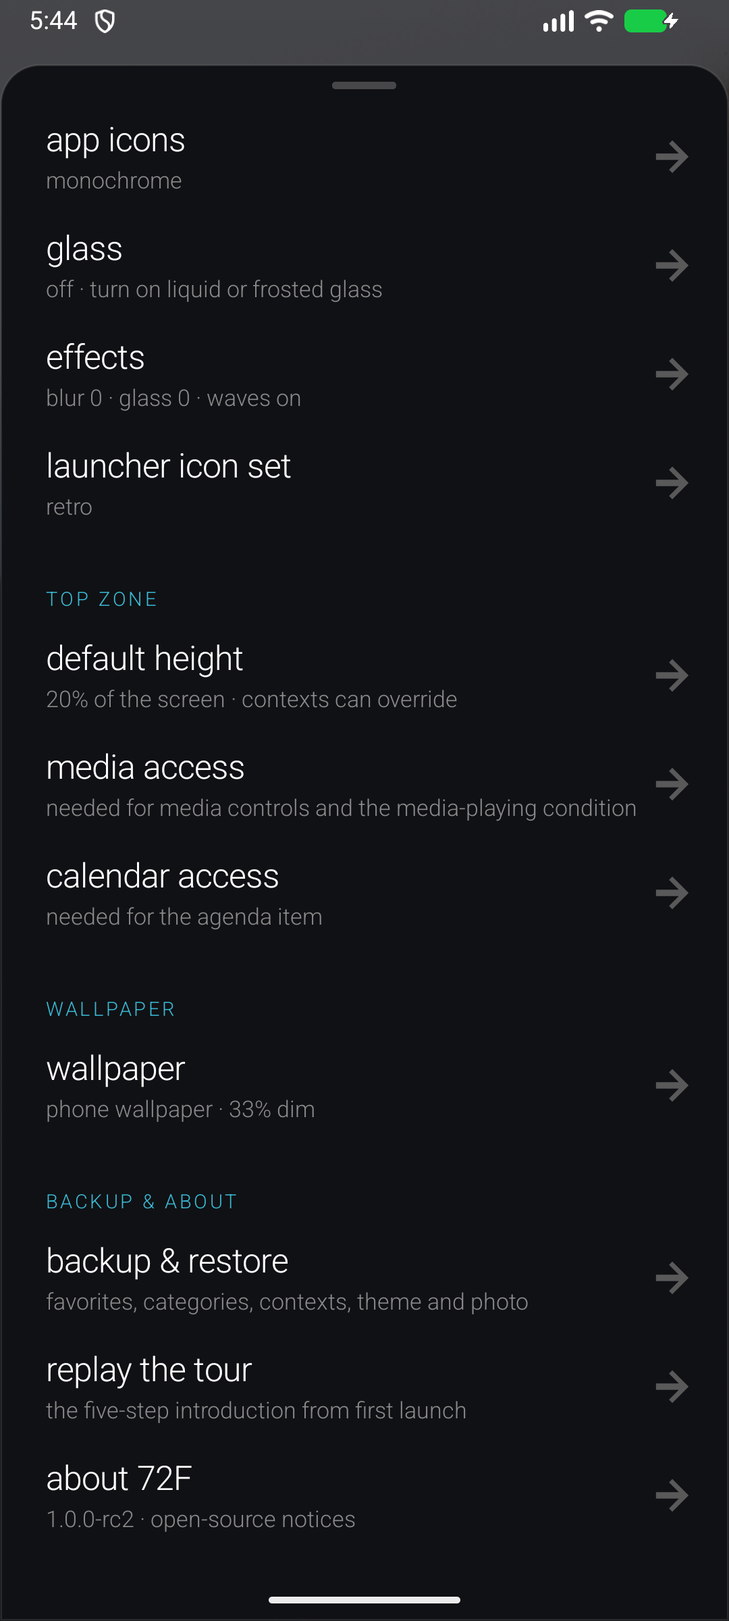
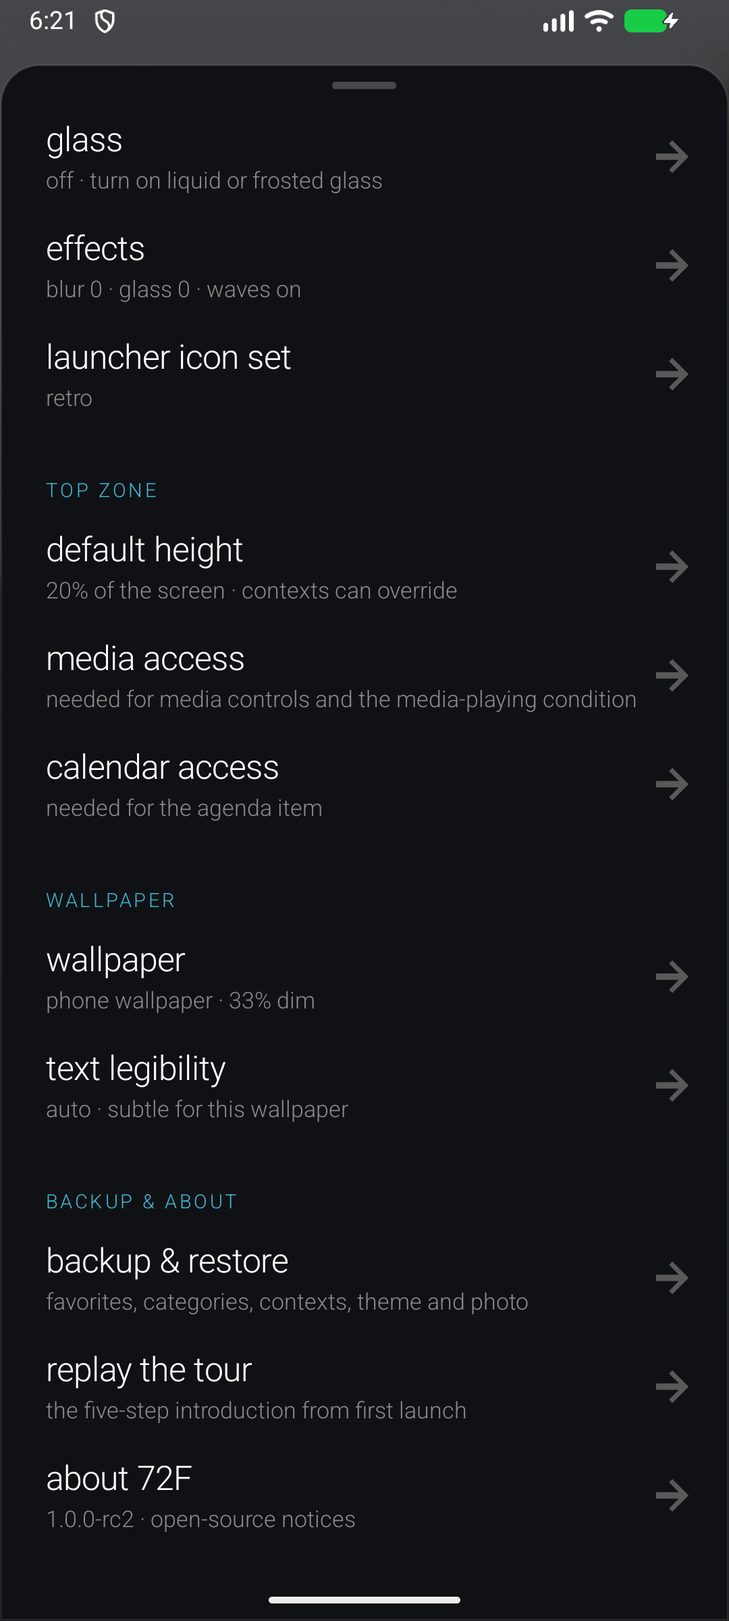
Text legibility over wallpapers: auto/subtle/strong/off
- Measures the photo's 10th/90th percentile luminance (or Android's wallpaper color hints) after dimming and picks Strong when worst-case contrast falls below WCAG 4.5:1
- Subtle: soft halo (dark behind light text, light behind dark text) and secondary text lifted from muted grey; Strong: stronger halo and 15% extra dimming
- Applied to category titles, app labels, clock, date, alarm, agenda, media, empty state, alphabet rail and search; light-theme dock surface made opaque enough for photos
- Setting in settings and the wallpaper menu, included in backups and validated on restore; Legibility class with JVM tests

diff --git a/app/src/main/java/dev/seventwo/launcher/MainActivity.java b/app/src/main/java/dev/seventwo/launcher/MainActivity.java
@@ -65,6 +65,9 @@ public final class MainActivity extends Activity {
     private String activeWallpaperMode;
     private EditText search;
     private CategoryRail categoryRail;
+    // Text legibility over images: photo luminance percentiles (measured off the UI thread) and the resolved level.
+    private volatile double photoDark=.05, photoBright=.5;
+    private int legibility;
     // Material 3 tonal roles. Expressive themes take them from the wallpaper palette (Android 12+).
     private int primaryContainer, onPrimaryContainer, secondaryContainer, onSecondaryContainer, surfaceContainer;
     private AlphabetRail alphabet;
@@ -225,6 +228,7 @@ public final class MainActivity extends Activity {
             boolean selected=c.equals(category);
             TextView t=text(theme.layout.equals("xmb")?Character.toUpperCase(c.charAt(0))+c.substring(1):c,titleSize,selected?fg:MetroArt.alpha(muted,.62f));
             if(theme.expressive){t.setTypeface(Typeface.create(theme.typeface,selected?800:500,false));t.setLetterSpacing(-.02f);}
+            if(legibility!=Legibility.OFF){if(!selected)t.setTextColor(MetroArt.alpha(fg,legibility==Legibility.STRONG?.78f:.62f));legible(t);}
             if(theme.liquid){t.setTextSize(Math.min(titleSize,36));t.setTypeface(Typeface.create(theme.typeface,600,false));t.setTextColor(selected?fg:MetroArt.alpha(fg,.38f));}
             t.setPadding(dp(24),dp(theme.liquid?12:0),dp(12),dp(theme.liquid?14:6));t.setSingleLine(true);t.setLetterSpacing(theme.layout.equals("xmb")?0:-.035f);
             t.setContentDescription(c+" category"+(selected?", selected":""));t.setOnClickListener(v->selectCategory(c,true));
@@ -247,7 +251,7 @@ public final class MainActivity extends Activity {
         if(waves!=null)waves.stop();for(GlassSurface glass:glassSurfaces)glass.stop();glassSurfaces.clear();glassBackdrop.clear();
         root=column();scene=new FrameLayout(this);backdropView=new View(this);
         scene.addView(backdropView,new FrameLayout.LayoutParams(-1,-1));scene.addView(root,new FrameLayout.LayoutParams(-1,-1));
-        activeWallpaperMode=prefs.getString("wallpaperMode","solid");
+        activeWallpaperMode=prefs.getString("wallpaperMode","solid");legibility=resolveLegibility();
         boolean useSystemWallpaper=activeWallpaperMode.equals("system");
         if(useSystemWallpaper)getWindow().addFlags(WindowManager.LayoutParams.FLAG_SHOW_WALLPAPER);else getWindow().clearFlags(WindowManager.LayoutParams.FLAG_SHOW_WALLPAPER);
         getWindow().setBackgroundDrawable(new android.graphics.drawable.ColorDrawable(Color.TRANSPARENT));
@@ -258,7 +262,7 @@ public final class MainActivity extends Activity {
         setContentView(scene); root.requestApplyInsets();
         if (searching) {
             LinearLayout row = row(); row.setPadding(dp(18), dp(8), dp(12), dp(8));
-            search = new EditText(this); search.setTextColor(fg); search.setHintTextColor(muted); search.setTextSize(25); search.setSingleLine(); search.setHint("find an app"); search.setTypeface(theme.typeface); search.setText(query);
+            search = new EditText(this); search.setTextColor(fg); search.setHintTextColor(secondaryInk()); legible(search); search.setTextSize(25); search.setSingleLine(); search.setHint("find an app"); search.setTypeface(theme.typeface); search.setText(query);
             row.addView(search,new LinearLayout.LayoutParams(0,dp(58),1)); row.addView(iconButton("close", "Close search", false, v -> onBackPressed())); root.addView(row);
             search.addTextChangedListener(new TextWatcher() { public void beforeTextChanged(CharSequence s,int a,int c,int f) {} public void onTextChanged(CharSequence s,int a,int b,int c) { query=s.toString(); refreshList(true); } public void afterTextChanged(Editable e) {} });
             search.setOnEditorActionListener((v,a,e) -> { if (!visible.isEmpty()) launch(visible.get(0)); return true; });
@@ -277,7 +281,7 @@ public final class MainActivity extends Activity {
         adapter = new AppAdapter(); list.setAdapter(adapter); listArea.addView(list,new FrameLayout.LayoutParams(-1,-1));
         list.setOnItemClickListener((p,v,pos,id) -> launch(visible.get(pos)));
         list.setOnItemLongClickListener((p,v,pos,id) -> { appMenu(visible.get(pos)); return true; });
-        empty = text("",20,muted); empty.setGravity(Gravity.CENTER); empty.setPadding(dp(40),0,dp(40),0); listArea.addView(empty,new FrameLayout.LayoutParams(-1,-1));
+        empty = text("",20,secondaryInk()); legible(empty); empty.setGravity(Gravity.CENTER); empty.setPadding(dp(40),0,dp(40),0); listArea.addView(empty,new FrameLayout.LayoutParams(-1,-1));
         alphabet = new AlphabetRail(); FrameLayout.LayoutParams railParams = new FrameLayout.LayoutParams(dp(40),-1, left?Gravity.LEFT:Gravity.RIGHT); listArea.addView(alphabet,railParams);
         letter = text("",64,accent); letter.setGravity(Gravity.CENTER); letter.setBackground(outline(MetroArt.alpha(bg,.96f),MetroArt.alpha(accent,.5f))); letter.setVisibility(View.GONE);
         FrameLayout.LayoutParams bubble = new FrameLayout.LayoutParams(dp(100),dp(100),Gravity.CENTER); listArea.addView(letter,bubble);
@@ -357,7 +361,7 @@ public final class MainActivity extends Activity {
         }
         void bind(App app) {
             label.setText(app.work ? getString(R.string.work_app,app.name) : app.name);
-            label.setTextColor(fg); label.setTypeface(theme.liquid?Typeface.create(theme.typeface,450,false):theme.typeface);
+            label.setTextColor(fg); legible(label); label.setTypeface(theme.liquid?Typeface.create(theme.typeface,450,false):theme.typeface);
             String style=prefs.getString("icons",theme.iconStyle);
             icon.setVisibility(style.equals("none")?GONE:VISIBLE); icon.setImageDrawable(app.icon);
             if(style.equals("mono")) { ColorMatrix colors=new ColorMatrix();colors.setSaturation(0);icon.setColorFilter(new ColorMatrixColorFilter(colors));icon.setAlpha(.82f); }
@@ -517,7 +521,8 @@ public final class MainActivity extends Activity {
         final Paint paint = new Paint(Paint.ANTI_ALIAS_FLAG); final ArrayList<String> letters = new ArrayList<>(); final ArrayList<Integer> positions=new ArrayList<>(); int selected=-1;
         AlphabetRail(){super(MainActivity.this);setContentDescription("Alphabet scrubber. Drag to jump to an app letter");setImportantForAccessibility(View.IMPORTANT_FOR_ACCESSIBILITY_NO);}
         void update(){ letters.clear();positions.clear(); for(int i=0;i<visible.size();i++){String l=CategoryRules.initial(visible.get(i).name);if(!letters.contains(l)){letters.add(l);positions.add(i);}}invalidate(); }
-        @Override protected void onDraw(Canvas c){super.onDraw(c);if(letters.isEmpty())return;paint.setTypeface(Typeface.create("sans-serif",Typeface.NORMAL));paint.setTextAlign(Paint.Align.CENTER);paint.setTextSize(dp(10));float step=Math.min(dp(22),(getHeight()-dp(16))/(float)letters.size());float start=(getHeight()-step*letters.size())/2;for(int i=0;i<letters.size();i++){paint.setColor(i==selected?accent:muted);c.drawText(letters.get(i),getWidth()/2f,start+step*(i+.5f)+dp(4),paint);}}
+        @Override protected void onDraw(Canvas c){super.onDraw(c);if(letters.isEmpty())return;paint.setTypeface(Typeface.create("sans-serif",Typeface.NORMAL));paint.setTextAlign(Paint.Align.CENTER);paint.setTextSize(dp(10));float step=Math.min(dp(22),(getHeight()-dp(16))/(float)letters.size());float start=(getHeight()-step*letters.size())/2;if(legibility!=Legibility.OFF)paint.setShadowLayer(dp(3),0,dp(.5f),Color.luminance(fg)>=.4?MetroArt.alpha(Color.BLACK,.6f):MetroArt.alpha(Color.WHITE,.7f));else paint.clearShadowLayer();
+            for(int i=0;i<letters.size();i++){paint.setColor(i==selected?accent:secondaryInk());c.drawText(letters.get(i),getWidth()/2f,start+step*(i+.5f)+dp(4),paint);}}
         @Override public boolean performClick(){super.performClick();return true;}
         @Override public boolean onTouchEvent(MotionEvent e){
             if(letters.isEmpty())return false;
@@ -606,7 +611,7 @@ public final class MainActivity extends Activity {
             surfaceContainer=mix(bg,fg,dark?.09f:.05f);
         }else{
             primaryContainer=accent;onPrimaryContainer=onAccent();secondaryContainer=MetroArt.alpha(accent,Color.luminance(accent)>.6?.22f:.18f);onSecondaryContainer=accent;
-            surfaceContainer=dark?MetroArt.alpha(mix(bg,fg,.12f),.92f):MetroArt.alpha(fg,.06f);
+            surfaceContainer=dark?MetroArt.alpha(mix(bg,fg,.12f),.92f):MetroArt.alpha(mix(bg,fg,.06f),.88f); // opaque enough to read over photos
         }
     }
     private JSONObject themeJson(){try{return new JSONObject(theme.json.toString());}catch(JSONException e){throw new IllegalStateException(e);}}
@@ -717,12 +722,45 @@ public final class MainActivity extends Activity {
         }catch(Exception e){ThemeEngine.deleteTree(prepared.directory);fileError(e);}
     }
     private GlassSurface glassSurface(View host){GlassSurface surface=new GlassSurface(host,scene,()->backdropView.getBackground(),glassBackdrop,theme,getResources().getDisplayMetrics().density);glassSurfaces.add(surface);host.setClipToOutline(true);if(theme.liquid)host.setElevation(dp(3));return surface;}
+    /** 10th/90th percentile relative luminance of the photo; the spots that threaten dark and light text. */
+    private void measurePhoto(Bitmap image){
+        try{
+            Bitmap small=Bitmap.createScaledBitmap(image,48,96,true);int[] px=new int[48*96];small.getPixels(px,0,48,0,0,48,96);if(small!=image)small.recycle();
+            double[] l=new double[px.length];for(int i=0;i<px.length;i++)l[i]=Color.luminance(px[i]);Arrays.sort(l);
+            photoDark=l[(int)(l.length*.1)];photoBright=l[(int)(l.length*.9)];
+        }catch(RuntimeException ignored){}
+    }
+    private boolean overImage(){return "photo".equals(activeWallpaperMode)&&wallpaper!=null||"system".equals(activeWallpaperMode);}
+    /** Picks Subtle or Strong from measured contrast; the phone wallpaper uses Android's color hints. */
+    private int resolveLegibility(){
+        int automatic=Legibility.SUBTLE;
+        if(overImage()){
+            double dark=photoDark,bright=photoBright;
+            if("system".equals(activeWallpaperMode)){
+                try{WallpaperColors colors=WallpaperManager.getInstance(this).getWallpaperColors(WallpaperManager.FLAG_SYSTEM);
+                    if(colors!=null){double primary=Color.luminance(colors.getPrimaryColor().toArgb());boolean light=Build.VERSION.SDK_INT>=31?(colors.getColorHints()&WallpaperColors.HINT_SUPPORTS_DARK_TEXT)!=0:primary>.5;
+                        bright=light?Math.max(.7,primary):Math.max(.25,Math.min(1,primary*1.8));dark=light?Math.min(.3,primary):primary*.5;}}
+                catch(RuntimeException ignored){}
+            }
+            automatic=Legibility.auto(Color.luminance(fg),Color.luminance(bg),dark,bright,prefs.getInt("wallpaperDim",60)/100.0);
+        }
+        return Legibility.resolve(prefs.getString("legibility","auto"),overImage(),automatic);
+    }
+    /** Secondary text over images: lifted from muted grey toward the main text color. */
+    private int secondaryInk(){return legibility==Legibility.OFF?muted:mix(muted,fg,legibility==Legibility.STRONG?.8f:.55f);}
+    /** A soft halo behind text drawn on an image: dark behind light text, light behind dark text. */
+    private void legible(TextView t){
+        if(legibility==Legibility.OFF){t.setShadowLayer(0,0,0,0);return;}
+        boolean lightText=Color.luminance(t.getCurrentTextColor())>=.4;
+        float strong=legibility==Legibility.STRONG?1:0;
+        t.setShadowLayer(dp(5+5*strong),0,dp(1),lightText?MetroArt.alpha(Color.BLACK,.45f+.3f*strong):MetroArt.alpha(Color.WHITE,.6f+.3f*strong));
+    }
     private void updateBackdrop(){
         if(backdropView==null)return;glassBackdrop.clear();for(GlassSurface surface:glassSurfaces)surface.invalidateSelf();if(waves!=null)waves.stop();waves=null;
         Bitmap image=Build.VERSION.SDK_INT<31&&softWallpaper!=null?softWallpaper:wallpaper;
         boolean system=activeWallpaperMode.equals("system");
         if(theme.backdrop.equals("waves")&&!activeWallpaperMode.equals("photo")&&!system){waves=new Ps3Backdrop(bg,accent);backdropView.setBackground(waves);if(foreground&&theme.animated&&android.animation.ValueAnimator.areAnimatorsEnabled())waves.start();}
-        else backdropView.setBackground(new MetroArt.Backdrop(activeWallpaperMode.equals("photo")?image:null,bg,theme.backdrop.equals("solid")?bg:accent,prefs.getInt("wallpaperDim",60)/100f,system));
+        else backdropView.setBackground(new MetroArt.Backdrop(activeWallpaperMode.equals("photo")?image:null,bg,theme.backdrop.equals("solid")?bg:accent,Math.min(.92f,prefs.getInt("wallpaperDim",60)/100f+(float)Legibility.extraDim(legibility)),system));
         if(Build.VERSION.SDK_INT>=31){backdropView.setRenderEffect(theme.blur>0?RenderEffect.createBlurEffect(dp(theme.blur),dp(theme.blur),Shader.TileMode.CLAMP):null);getWindow().setBackgroundBlurRadius(system?dp(theme.blur):0);}
     }
     private void prepareSoftWallpaper(){
@@ -738,7 +776,7 @@ public final class MainActivity extends Activity {
         final File selectedFile=file;
         worker.execute(() -> {
             try {
-                Bitmap image=decodeWallpaper(selectedFile);
+                Bitmap image=decodeWallpaper(selectedFile);measurePhoto(image);
                 handler.post(() -> { if(!isDestroyed()&&request==wallpaperGeneration){wallpaper=image;prepareSoftWallpaper();buildUi();}else image.recycle(); });
             } catch(IOException ignored) { }
         });
@@ -764,7 +802,7 @@ public final class MainActivity extends Activity {
                     byte[] buffer=new byte[8192];int n,total=0;
                     while((n=in.read(buffer))!=-1){total+=n;if(total>32*1024*1024)throw new IOException("Choose an image smaller than 32 MB");out.write(buffer,0,n);}
                 }
-                Bitmap image=decodeWallpaper(incoming);
+                Bitmap image=decodeWallpaper(incoming);measurePhoto(image);
                 android.util.AtomicFile saved=new android.util.AtomicFile(new File(getFilesDir(),"wallpaper.jpg"));
                 FileOutputStream output=null;
                 try { output=saved.startWrite();if(!image.compress(Bitmap.CompressFormat.JPEG,92,output))throw new IOException("Couldn't save image");saved.finishWrite(output); }
@@ -777,7 +815,8 @@ public final class MainActivity extends Activity {
         });
     }
     private void wallpaperSettings() {
-        menu("wallpaper",new String[]{"choose a photo","use phone wallpaper","solid background","wallpaper dimming","use saved photo"},i -> {
+        menu("wallpaper",new String[]{"choose a photo","use phone wallpaper","solid background","wallpaper dimming","use saved photo","text legibility · "+legibilitySummary()},i -> {
+            if(i==5){legibilitySettings();return;}
             if(i==0){try{startActivityForResult(new Intent(Intent.ACTION_OPEN_DOCUMENT).setType("image/*").addCategory(Intent.CATEGORY_OPENABLE),44);}catch(ActivityNotFoundException e){toast("No image picker available");}}
             if(i==1||i==2){prefs.edit().putString("wallpaperMode",i==1?"system":"solid").apply();buildUi();}
             if(i==3){
@@ -810,20 +849,20 @@ public final class MainActivity extends Activity {
             switch(item){
                 case "clock":{
                     LinearLayout timeRow=row(); timeRow.setGravity(Gravity.CENTER_VERTICAL);
-                    clock=text("",theme.layout.equals("xmb")?30:percent<=10?34:46,fg); clock.setLetterSpacing(-.045f); clock.setSingleLine(true);
+                    clock=text("",theme.layout.equals("xmb")?30:percent<=10?34:46,fg);legible(clock); clock.setLetterSpacing(-.045f); clock.setSingleLine(true);
                     timeRow.addView(clock,new LinearLayout.LayoutParams(0,-2,1.2f));
                     View divider=new View(this); divider.setBackgroundColor(MetroArt.alpha(accent,.75f));
                     LinearLayout.LayoutParams lineParams=new LinearLayout.LayoutParams(dp(1),dp(38)); lineParams.setMargins(dp(14),0,dp(18),0); timeRow.addView(divider,lineParams);
-                    date=text("",11,muted); date.setTypeface(Typeface.create("sans-serif-medium",Typeface.NORMAL)); date.setLineSpacing(dp(6),1); date.setLetterSpacing(.1f);
+                    date=text("",11,secondaryInk());legible(date); date.setTypeface(Typeface.create("sans-serif-medium",Typeface.NORMAL)); date.setLineSpacing(dp(6),1); date.setLetterSpacing(.1f);
                     date.setContentDescription("Date and active context. Tap for quick settings"); date.setOnClickListener(v->openSettings()); date.setMinHeight(dp(48)); date.setGravity(Gravity.CENTER_VERTICAL);
                     timeRow.addView(date,new LinearLayout.LayoutParams(0,-2,1)); header.addView(timeRow); updateClock();
                     clock.setContentDescription("Clock. Tap to open alarms"); clock.setOnClickListener(v->safeStart(new Intent(android.provider.AlarmClock.ACTION_SHOW_ALARMS)));
                     break;}
                 case "alarm":
-                    alarmText=text("",13,muted); alarmText.setLetterSpacing(.08f); alarmText.setPadding(0,first?0:dp(12),0,0); alarmText.setSingleLine();
+                    alarmText=text("",13,secondaryInk());legible(alarmText); alarmText.setLetterSpacing(.08f); alarmText.setPadding(0,first?0:dp(12),0,0); alarmText.setSingleLine();
                     alarmText.setOnClickListener(v->safeStart(new Intent(android.provider.AlarmClock.ACTION_SHOW_ALARMS))); header.addView(alarmText); updateAlarm(); break;
                 case "agenda":
-                    agendaText=text("",14,fg); agendaText.setLineSpacing(dp(4),1); agendaText.setPadding(0,first?0:dp(12),0,0); agendaText.setMaxLines(3); agendaText.setEllipsize(TextUtils.TruncateAt.END);
+                    agendaText=text("",14,fg);legible(agendaText); agendaText.setLineSpacing(dp(4),1); agendaText.setPadding(0,first?0:dp(12),0,0); agendaText.setMaxLines(3); agendaText.setEllipsize(TextUtils.TruncateAt.END);
                     header.addView(agendaText); updateAgenda(); break;
                 case "smartspace":{
                     View smartspace=smartspaceView(first);
@@ -834,7 +873,7 @@ public final class MainActivity extends Activity {
                     TextView playing=text("NOW PLAYING",9,accent); playing.setLetterSpacing(.14f); mediaBox.addView(playing);
                     LinearLayout mediaRow=row(); mediaRow.setGravity(Gravity.CENTER_VERTICAL);
                     LinearLayout metadata=column(); metadata.setPadding(0,dp(6),dp(8),0);
-                    mediaTitle=text("",18,fg); mediaArtist=text("",12,muted);
+                    mediaTitle=text("",18,fg); mediaArtist=text("",12,secondaryInk()); legible(mediaTitle); legible(mediaArtist);
                     mediaTitle.setSingleLine(); mediaTitle.setEllipsize(TextUtils.TruncateAt.END); mediaArtist.setSingleLine();
                     metadata.addView(mediaTitle); metadata.addView(mediaArtist); mediaRow.addView(metadata,new LinearLayout.LayoutParams(0,-2,1));
                     playButton=iconButton("play","Play or pause",true,v->mediaAction(1));
@@ -885,7 +924,7 @@ public final class MainActivity extends Activity {
     private void updateAgenda(){
         if(agendaText==null)return;
         agendaLoaded=System.currentTimeMillis();
-        if(!calendarAllowed()){agendaText.setTextColor(muted);agendaText.setText("tap to show your calendar here");agendaText.setOnClickListener(v->requestPermissions(new String[]{android.Manifest.permission.READ_CALENDAR},49));return;}
+        if(!calendarAllowed()){agendaText.setTextColor(secondaryInk());agendaText.setText("tap to show your calendar here");agendaText.setOnClickListener(v->requestPermissions(new String[]{android.Manifest.permission.READ_CALENDAR},49));return;}
         final TextView target=agendaText;final boolean is24=android.text.format.DateFormat.is24HourFormat(this);
         target.setOnClickListener(v->safeStart(new Intent(Intent.ACTION_VIEW,Uri.parse("content://com.android.calendar/time/"+System.currentTimeMillis()))));
         worker.execute(()->{
@@ -902,7 +941,7 @@ public final class MainActivity extends Activity {
                 }
             }catch(RuntimeException ignored){}
             String result=out.length()==0?"nothing in the next 24 hours":out.toString();
-            handler.post(()->{if(target==agendaText){target.setTextColor(out.length()==0?muted:fg);target.setText(result);}});
+            handler.post(()->{if(target==agendaText){target.setTextColor(out.length()==0?secondaryInk():fg);target.setText(result);}});
         });
     }
     @Override public void onRequestPermissionsResult(int request,String[] permissions,int[] results){
@@ -1249,6 +1288,7 @@ public final class MainActivity extends Activity {
         page.addView(sectionLabel("wallpaper"));
         String mode=prefs.getString("wallpaperMode","solid");
         page.addView(settingRow("wallpaper",(mode.equals("photo")?"photo":mode.equals("system")?"phone wallpaper":"solid")+" · "+prefs.getInt("wallpaperDim",60)+"% dim",v->wallpaperSettings()));
+        page.addView(settingRow("text legibility",legibilitySummary(),v->legibilitySettings()));
 
         page.addView(sectionLabel("backup & about"));
         page.addView(settingRow("backup & restore","favorites, categories, contexts, theme and photo",v->backupSettings()));
@@ -1353,6 +1393,17 @@ public final class MainActivity extends Activity {
         d.getButton(AlertDialog.BUTTON_POSITIVE).setOnClickListener(v->{String name=input.getText().toString().trim().toLowerCase(Locale.ROOT);if(name.isEmpty()){input.setError("Enter a name");return;}r.name=name;d.dismiss();contextsChanged();});
     }
 
+    private String legibilitySummary(){
+        String mode=prefs.getString("legibility","auto");
+        if(!overImage())return mode+" · applies over photos";
+        return mode.equals("auto")?"auto · "+(legibility==Legibility.STRONG?"strong":"subtle")+" for this wallpaper":mode;
+    }
+    private void legibilitySettings(){
+        menu("text legibility",new String[]{"auto · measures your wallpaper","subtle · soft halo, lifted grey text","strong · stronger halo and a little extra dimming","off"},n->{
+            prefs.edit().putString("legibility",Legibility.MODES[n]).apply();buildUi();
+            if(n==0&&overImage())toast("Auto picked "+(legibility==Legibility.STRONG?"strong":"subtle")+" for this wallpaper");
+        });
+    }
     private void defaultHome(){try{if(Build.VERSION.SDK_INT>=29){RoleManager rm=getSystemService(RoleManager.class);if(rm.isRoleAvailable(RoleManager.ROLE_HOME)&&!rm.isRoleHeld(RoleManager.ROLE_HOME)){startActivityForResult(rm.createRequestRoleIntent(RoleManager.ROLE_HOME),43);return;}}safeStart(new Intent(Settings.ACTION_HOME_SETTINGS));}catch(Exception e){safeStart(new Intent(Settings.ACTION_HOME_SETTINGS));}}
     // Onboarding: a five-step, skippable first-run tour drawn over the live launcher with the current theme.
     private static final int TOUR_PAGES=5;

diff --git a/app/src/main/java/dev/seventwo/launcher/Legibility.java b/app/src/main/java/dev/seventwo/launcher/Legibility.java
@@ -1,0 +1,43 @@
+package dev.seventwo.launcher;
+
+/**
+ * Text legibility over images. Pure math (relative luminance, WCAG contrast) so it is testable off-device.
+ * Light text is threatened by the bright spots of a photo, dark text by its dark spots; the decision uses
+ * those percentiles after the launcher's dimming, not the photo's average.
+ */
+final class Legibility {
+    static final int OFF = 0, SUBTLE = 1, STRONG = 2;
+    static final String[] MODES = {"auto", "subtle", "strong", "off"};
+    static final double TARGET = 4.5; // WCAG AA for body text
+
+    private Legibility() { }
+
+    static double contrast(double a, double b) { return (Math.max(a, b) + .05) / (Math.min(a, b) + .05); }
+
+    /** Luminance after dimming toward the theme background (dim 0–1). */
+    static double dimmed(double luminance, double background, double dim) { return luminance * (1 - dim) + background * dim; }
+
+    /** Worst-case contrast of text over the image: against its bright spots (light text) or dark spots (dark text). */
+    static double worstContrast(double text, double background, double darkSpot, double brightSpot, double dim) {
+        double spot = text >= .5 ? dimmed(brightSpot, background, dim) : dimmed(darkSpot, background, dim);
+        return contrast(text, spot);
+    }
+
+    static int auto(double text, double background, double darkSpot, double brightSpot, double dim) {
+        return worstContrast(text, background, darkSpot, brightSpot, dim) >= TARGET ? SUBTLE : STRONG;
+    }
+
+    /** Resolves the user's mode. Solid and animated theme backdrops are designed for their text: no treatment. */
+    static int resolve(String mode, boolean overImage, int automatic) {
+        if (!overImage) return OFF;
+        switch (mode) {
+            case "off": return OFF;
+            case "subtle": return SUBTLE;
+            case "strong": return STRONG;
+            default: return automatic;
+        }
+    }
+
+    /** Extra dimming Strong adds on top of the user's setting (0–1). */
+    static double extraDim(int level) { return level == STRONG ? .15 : 0; }
+}

diff --git a/tests/LegibilityTest.java b/tests/LegibilityTest.java
@@ -1,0 +1,22 @@
+package dev.seventwo.launcher;
+
+public class LegibilityTest {
+    static int passed;
+    public static void main(String[] args) {
+        check(21.0, Math.round(Legibility.contrast(1, 0) * 10) / 10.0);
+        // Forest measurements: white text over bright spots (0.28) at 20% dim on a black theme → about 3:1, needs Strong.
+        check(Legibility.STRONG, Legibility.auto(1, 0, .02, .28, .2));
+        // The same photo at 60% dim clears 4.5:1 → Subtle is enough.
+        check(Legibility.SUBTLE, Legibility.auto(1, 0, .02, .28, .6));
+        // Dark text (paper theme) worries about dark spots, dimmed toward a light background.
+        check(Legibility.STRONG, Legibility.auto(.01, .9, .02, .5, .2));
+        check(Legibility.SUBTLE, Legibility.auto(.01, .9, .02, .5, .8));
+        check(Legibility.OFF, Legibility.resolve("auto", false, Legibility.STRONG));
+        check(Legibility.STRONG, Legibility.resolve("auto", true, Legibility.STRONG));
+        check(Legibility.SUBTLE, Legibility.resolve("subtle", true, Legibility.STRONG));
+        check(Legibility.OFF, Legibility.resolve("off", true, Legibility.STRONG));
+        check(.15, Legibility.extraDim(Legibility.STRONG));
+        System.out.println(passed + " legibility tests passed");
+    }
+    static void check(Object expected, Object actual) { if (!expected.equals(actual)) throw new AssertionError(expected + " != " + actual); passed++; }
+}

diff --git a/app/src/main/java/dev/seventwo/launcher/BackupStore.java b/app/src/main/java/dev/seventwo/launcher/BackupStore.java
@@ -9,7 +9,7 @@ import java.util.zip.ZipOutputStream;
 
 /** Portable, bounded backups. Assets are staged before a single preference commit. */
 final class BackupStore {
-    static final String[] KEYS={"favorites","custom","disabled","assignments","merges","categories","header","left","media","icons","iconPack","wallpaperMode","wallpaperDim","theme","seeded","introduced","contexts"};
+    static final String[] KEYS={"favorites","custom","disabled","assignments","merges","categories","header","left","media","icons","iconPack","wallpaperMode","wallpaperDim","theme","seeded","introduced","contexts","legibility"};
     static final class Pending {
         final File directory;final JSONObject preferences;final ThemeEngine theme;
         Pending(File d,JSONObject p,ThemeEngine t){directory=d;preferences=p;theme=t;}
@@ -89,6 +89,7 @@ final class BackupStore {
         }
         new JSONObject(p.optString("theme","{}"));
         if(p.has("contexts"))ContextStore.parse(p.getString("contexts"));
+        if(!Arrays.asList(Legibility.MODES).contains(p.optString("legibility","auto")))throw new IOException("Invalid text legibility");
     }
     static void apply(Context context,SharedPreferences prefs,Pending pending)throws Exception {
         // Files already reside in a unique immutable directory; readers switch via one commit.

diff --git a/app/src/androidTest/java/dev/seventwo/launcher/EngineChecks.java b/app/src/androidTest/java/dev/seventwo/launcher/EngineChecks.java
@@ -59,6 +59,7 @@ public final class EngineChecks extends Instrumentation {
         reject(()->BackupStore.validate(new JSONObject().put("favorites","[\"0:a/b\",\"0:a/b\"]")));
         reject(()->BackupStore.validate(new JSONObject().put("merges","{\"music\":\"video\",\"video\":\"music\"}")));
         reject(()->BackupStore.validate(new JSONObject().put("unknown","x")));
+        reject(()->BackupStore.validate(new JSONObject().put("legibility","loud")));BackupStore.validate(new JSONObject().put("legibility","strong"));yes(true);
         reject(()->BackupStore.validate(new JSONObject().put("contexts","[{\"id\":\"a\",\"name\":\"x\",\"widgets\":[\"script:1\"]}]")));
         reject(()->BackupStore.validate(new JSONObject().put("contexts","[{\"id\":\"a\",\"name\":\"x\"},{\"id\":\"a\",\"name\":\"y\"}]")));
         reject(()->BackupStore.validate(new JSONObject().put("contexts","[{\"id\":\"a\",\"name\":\"x\",\"start\":5000}]")));

diff --git a/README.md b/README.md
@@ -31,6 +31,8 @@ App widgets use Android's widget bind prompt and the provider's configuration sc
 
 Open **Settings → wallpaper**. Choose a photo through Android’s document picker, follow the phone’s wallpaper, or return to a solid background. Photo imports are stored privately, centered to fill the screen, and restored after restarting. Dimming adjusts live from 0–90%, with extra shading toward the bottom. Images up to 32 MB are accepted and decoded at a maximum dimension of 2048 pixels. The original file is unchanged; no broad photo-library permission is required.
 
+
+**Text legibility** (Settings → text legibility, or the wallpaper menu) keeps text readable over a photo or the phone wallpaper. **Auto** measures the photo's bright and dark spots after dimming and compares them with the theme's text color: if contrast would fall below 4.5:1 (WCAG AA) it uses **Strong**, otherwise **Subtle**. Over the phone wallpaper it uses Android's wallpaper color hints. Subtle adds a soft halo (dark behind light text, light behind dark text) and lifts grey secondary text toward the main text color; Strong uses a stronger halo and 15% extra dimming. Solid and animated theme backgrounds are left untouched.
 ## Themes
 
 Seven built-in looks: four Retro palettes, **Wave**, **Liquid Retro**, and **Material 3 Expressive**. Expressive takes its colors from the wallpaper's Material You palette on Android 12+ (light and dark follow the system), with an M3 baseline palette on older versions. It uses tonal containers, emphasized type, an M3 pill indicator in the dock, a rounded-square search button that morphs while pressed, and spring motion. The Wave look uses a horizontal icon/category strip, vertical app lists, glowing selection, original animated waves, and particles. Favorites remains Home in every theme.
